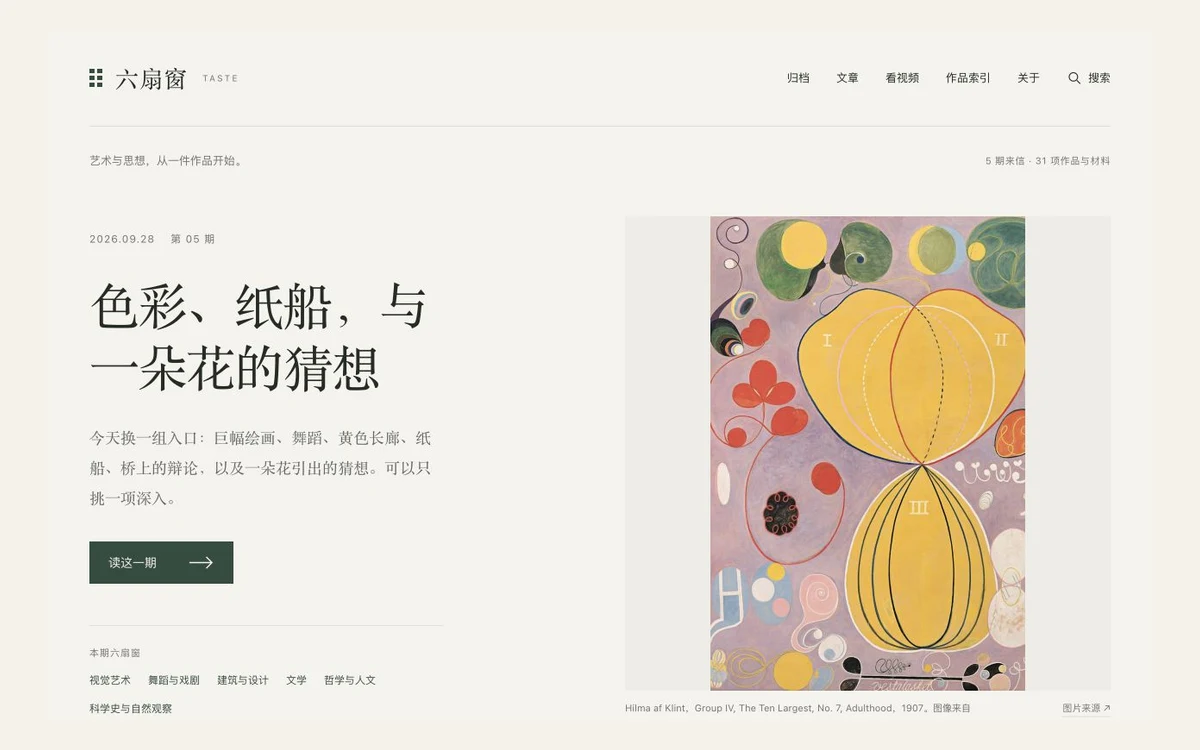
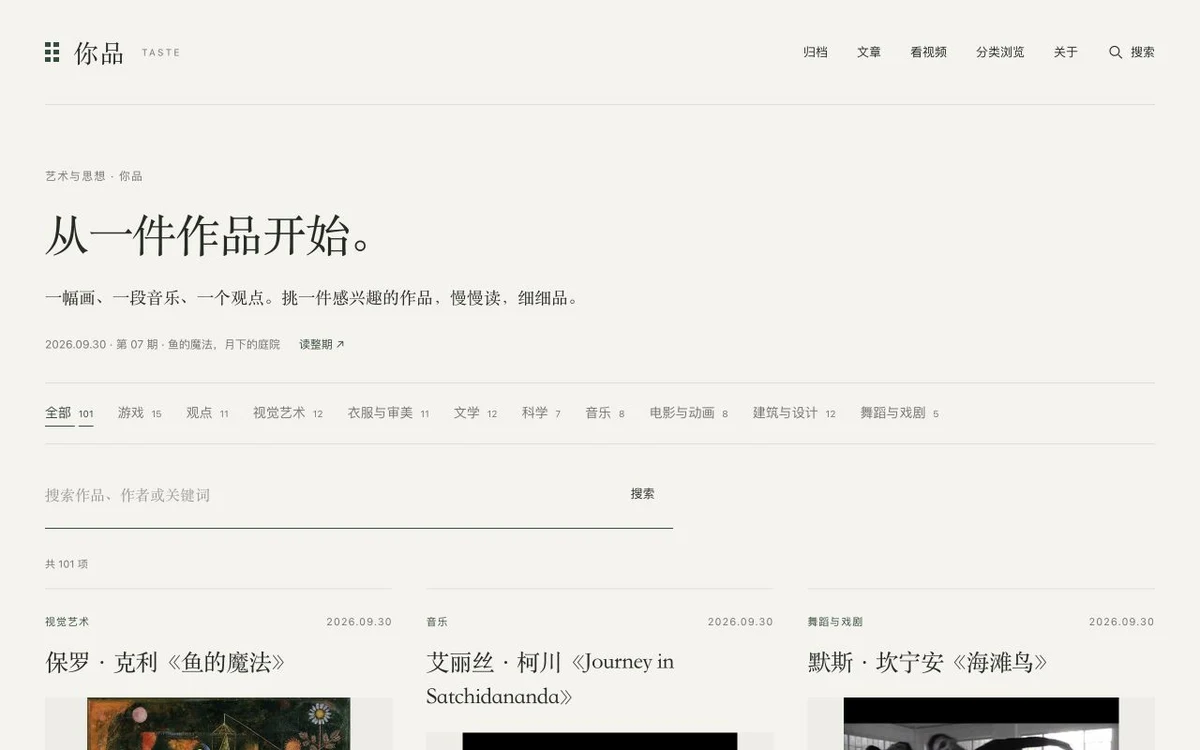
Refresh Nipin and add Hyrule adventure to portfolio

diff --git a/CURRENT.md b/CURRENT.md
@@ -1,6 +1,13 @@
 # 当前状态
 
-**2026-09-28 18:15：六扇窗与 AI 教育中英双语站已加入作品集并发布，公网回读通过。**
+## 你品与海拉鲁更新（2026-09-30）
+
+- 「六扇窗」更新为「你品」，保留 `/projects/taste/`。标题、简介、正文、按钮、图片说明与真实封面同步；介绍更新为可反复浏览的品味集，区分原创文章、译文与历史六项来信。
+- 新增「海拉鲁 · 蓝焰余响」与 `/projects/hyrule/`，置于 PocoFocus 与菌露谷之间，首页共11项作品、12个静态页面。使用正式站真实封面，链接游戏与素材说明；标明个人非官方 Demo、当前玩法与设备/声音限制。
+- 基于已提交的 `83e21ee`，保留同期新增的「最佳拍档 · 格得」页脚入口。本任务未修改被介绍的产品。
+- 本地构建通过；Chrome 在1280×850、390×844、320×740深色/reduced-motion下完成首页→全部11详情→返回，共33组。图片加载、详情标题、目标链接与无横向溢出检查通过，未见控制台警告/错误。受控截图确认手机标题换行、按钮、封面及深色模式无明显遮挡。
+- 本地证据：`/tmp/hi-refresh-20260930/local-qa.json`、对应截图与 `local-preview.jpg`；封面来源见 `docs/ASSETS.md`。本轮未重测被介绍产品的完整业务流程、实体手机或 Safari。
+- 发布状态：待本次源码提交后发布与公网回读；当前线上版本仍以 `https://hi.fangs.cc/release.json` 为准。
 
 ## 新增两项作品（2026-09-28）
 

diff --git a/docs/ASSETS.md b/docs/ASSETS.md
@@ -23,3 +23,12 @@
 | aiedu.webp | https://aiedu.fangs.cc/ | 内置浏览器中文首页截图，1280×720；课程目录与语言切换，课程及品牌归 Khan Academy 与相应权利人；等比完整缩放，浅色留边 |
 
 新增封面同为 1200×750 WebP、quality 88，不修改产品界面。原始截图与本轮 QA 证据在 `/tmp/hi-new-works-20260928/`，成品在本仓库留存。
+
+## 2026-09-30 你品与海拉鲁
+
+| 文件 | 原始来源 | 加工 |
+| --- | --- | --- |
+| taste.webp | https://taste.fangs.cc/ | 替换旧六扇窗截图；Chrome 真实首页，1280×800，包含新站名、分类与当前作品入口 |
+| hyrule.webp | https://zelda.fangs.cc/ | Chrome 真实游戏入口，1280×800；等待场景加载完成与开始按钮可用，保留标题、场景与控制提示 |
+
+两图等比缩放为 1200×750 WebP、quality 88，未改写页面或游戏画面。海拉鲁为个人非官方 Demo，素材归属继续以作品的「制作与素材」入口为准。原始截图与核验记录位于 `/tmp/hi-refresh-20260930/`；成品纳入本仓库。
